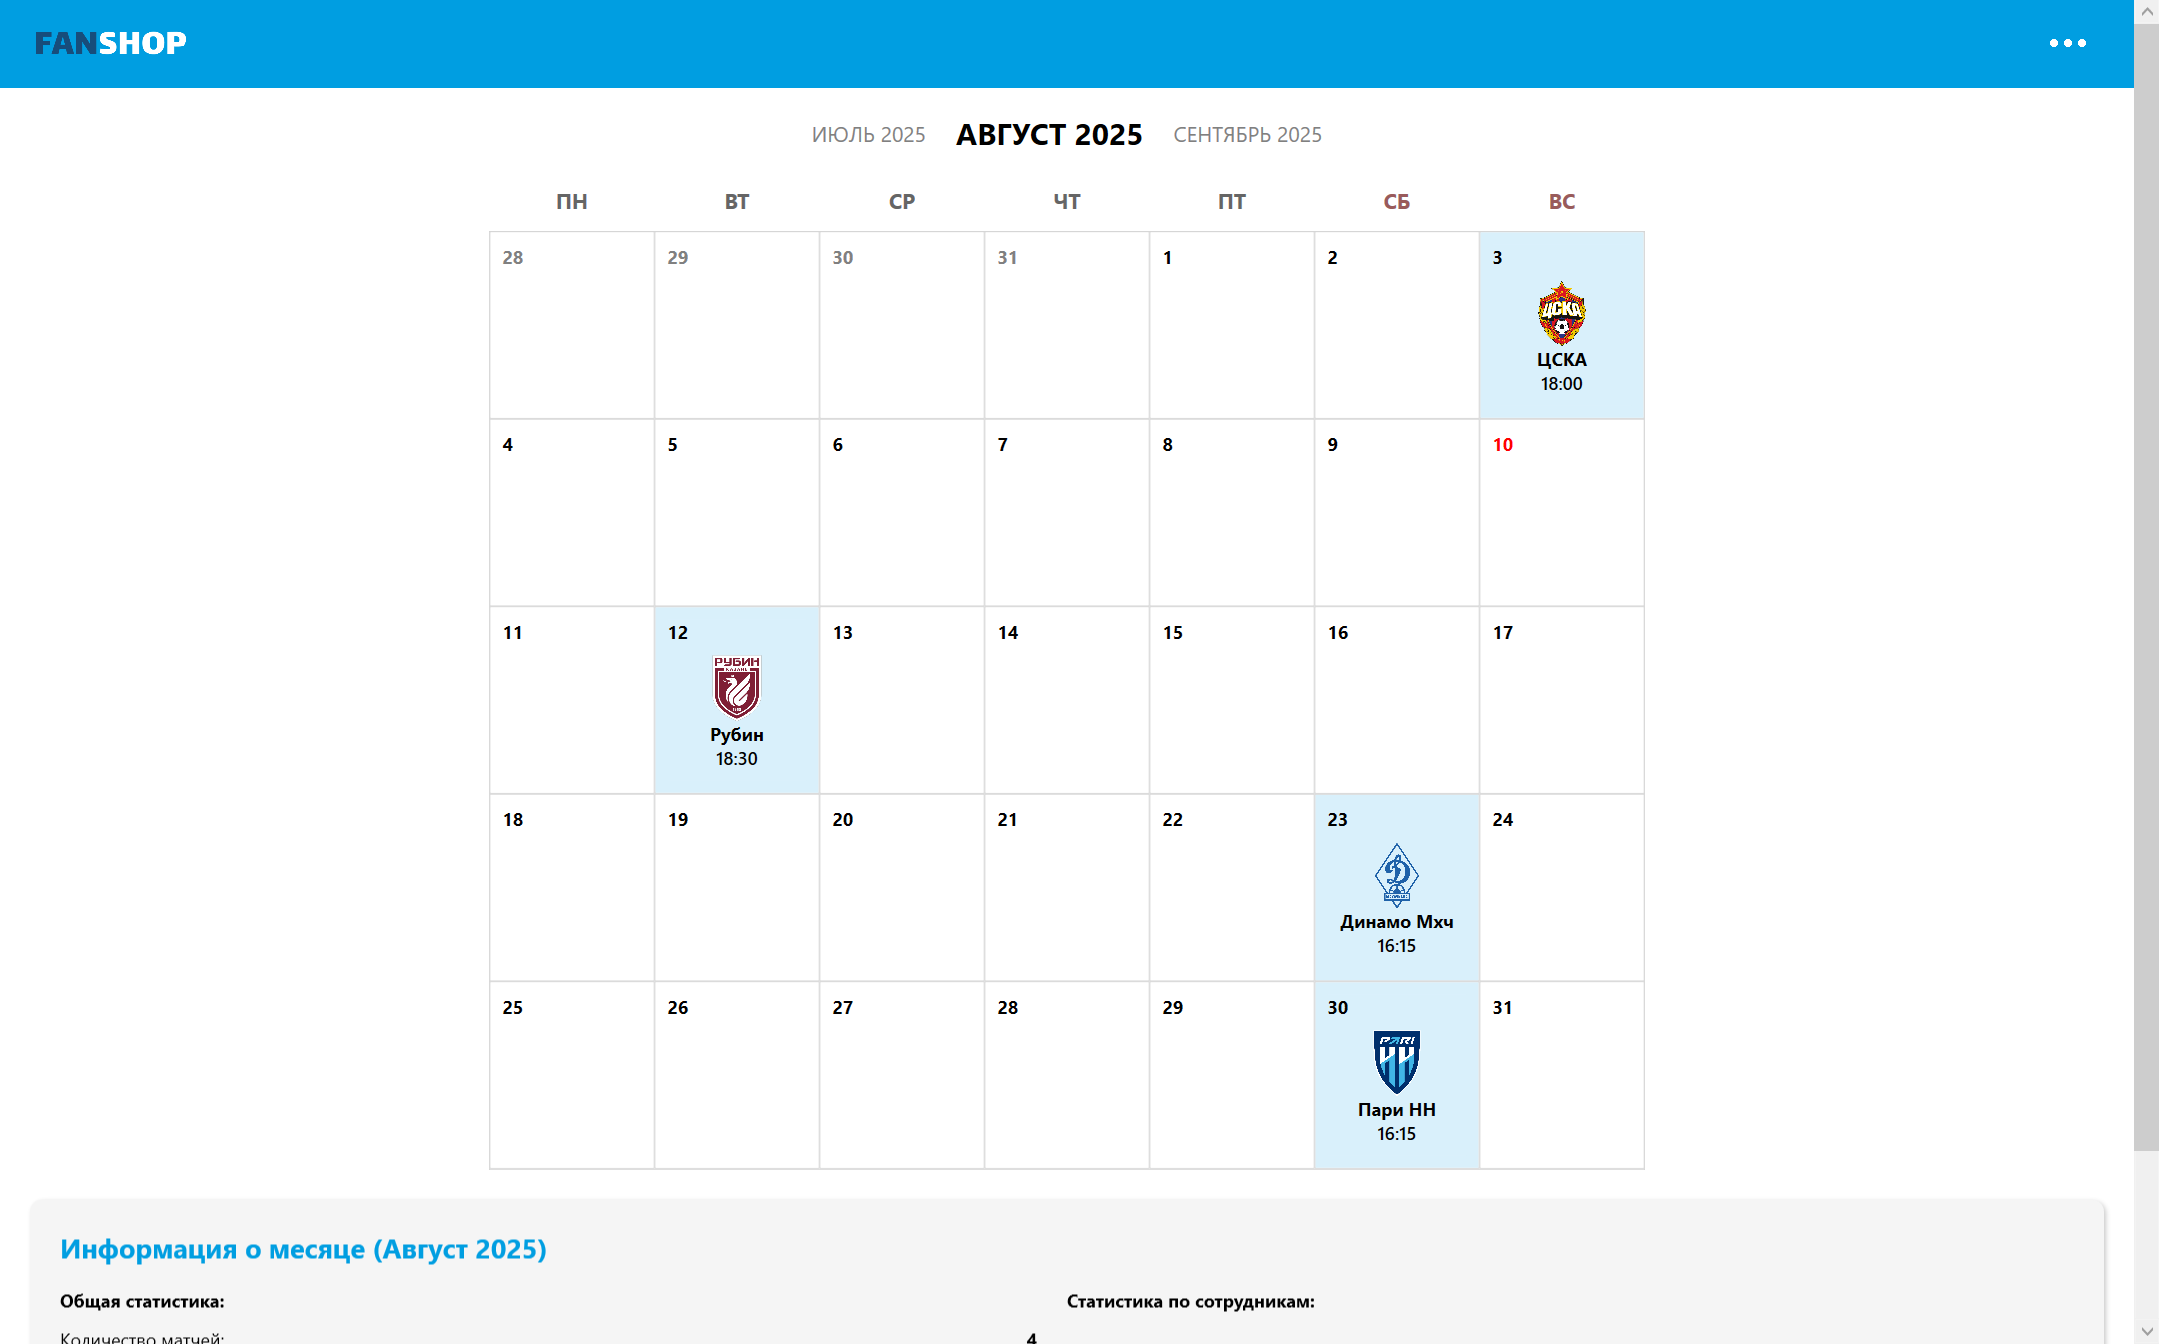
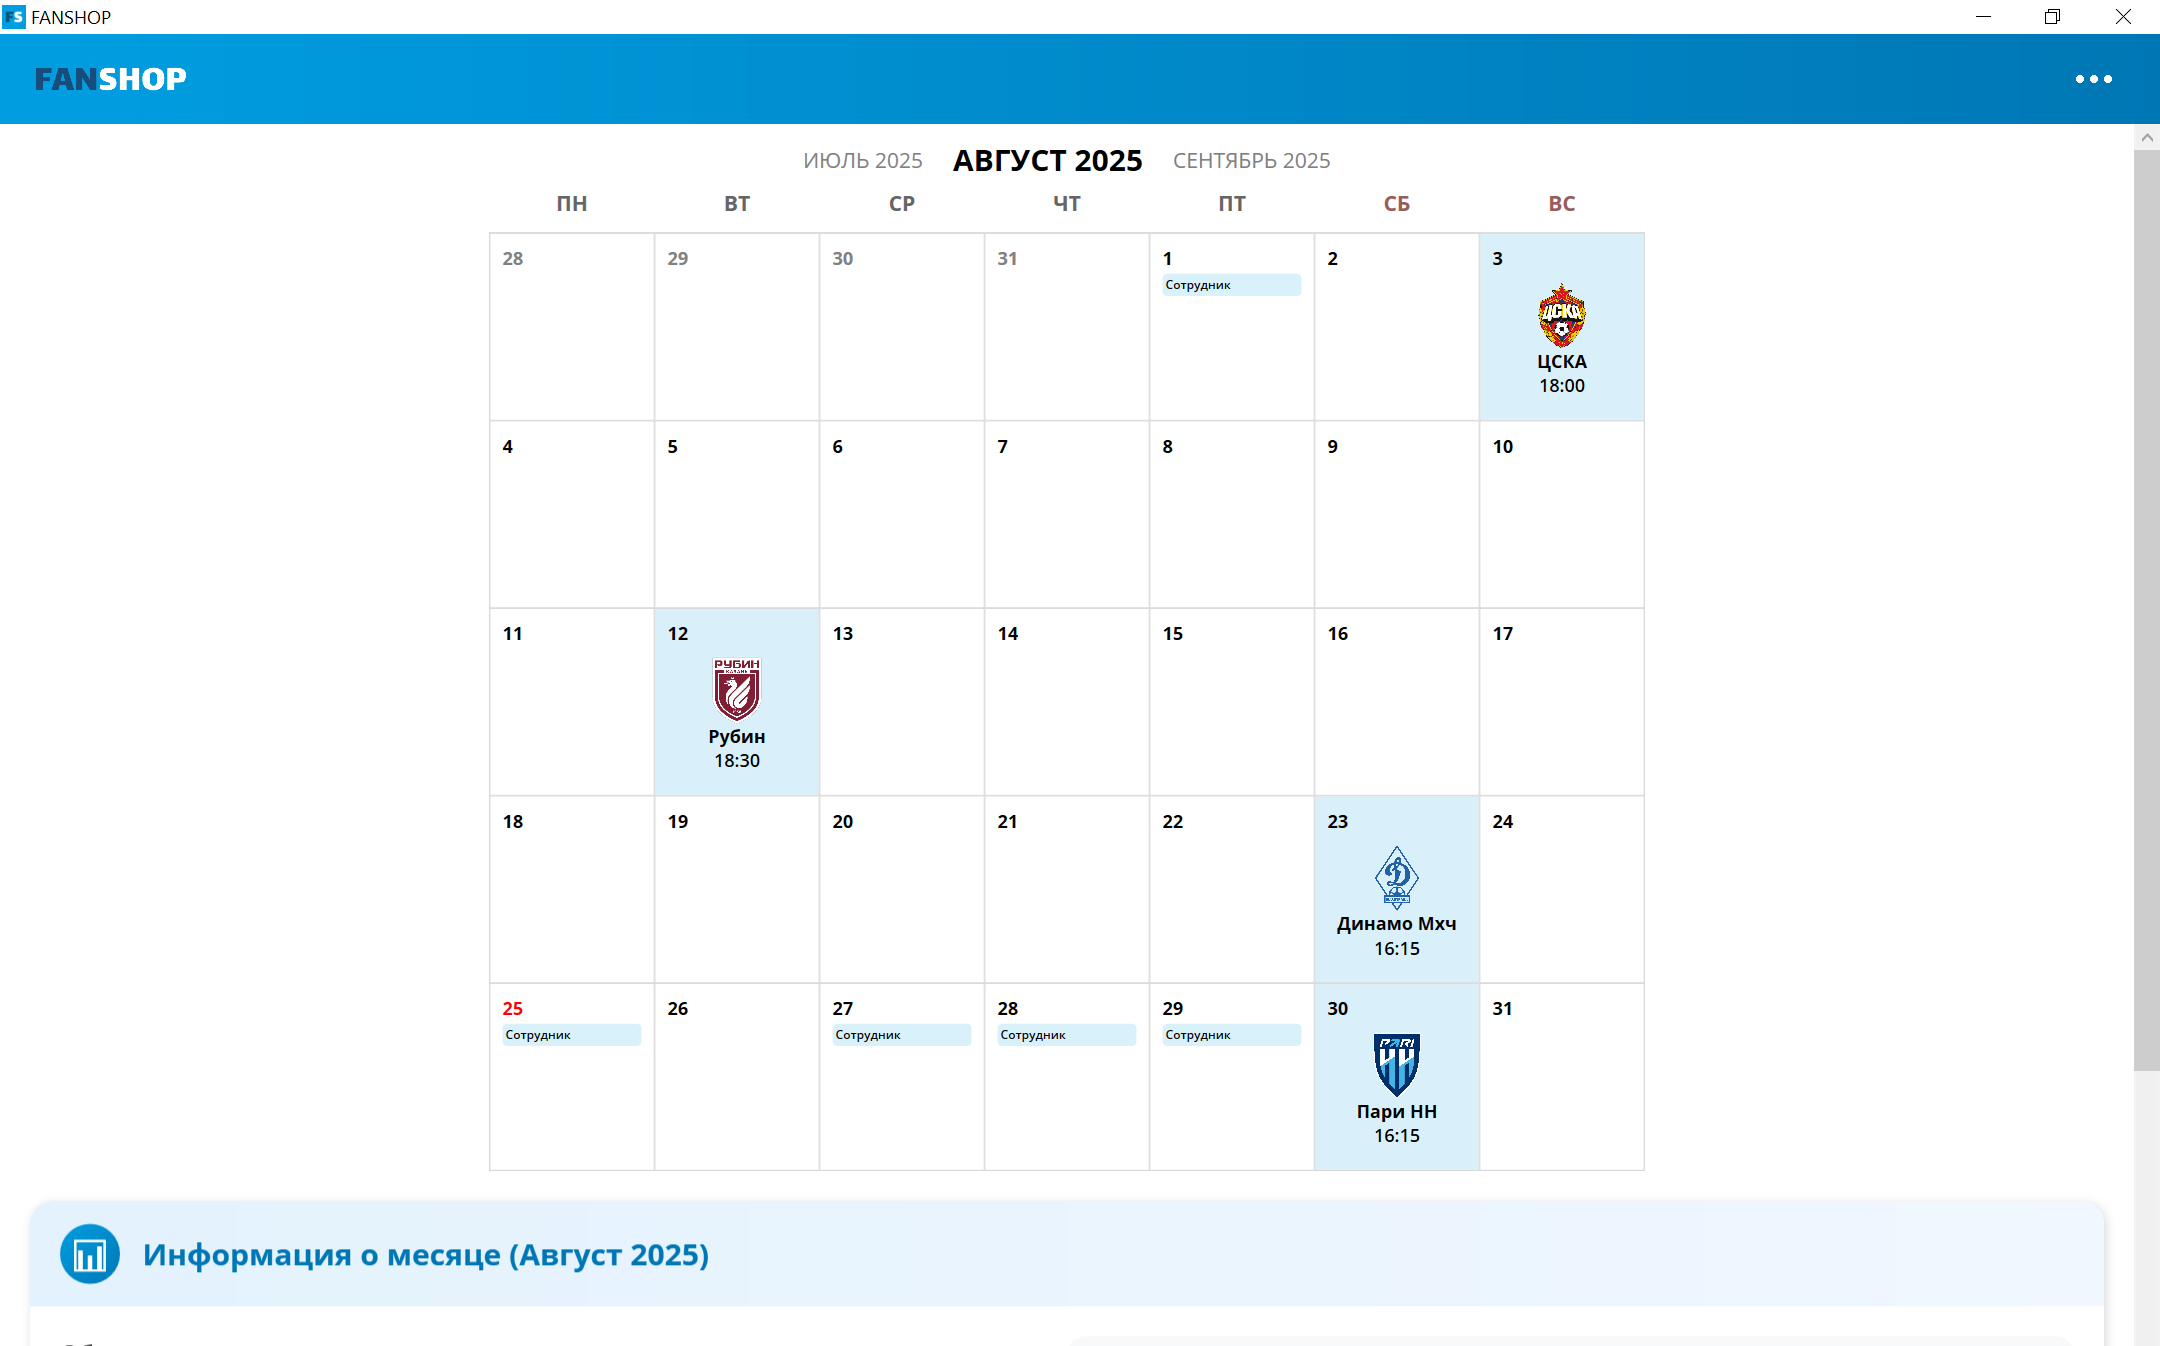
Update README.md

diff --git a/README.md b/README.md
@@ -27,6 +27,10 @@
     - Manage employee roles, shift rules, and payroll settings
     - Import/export data for backup or transfer
 
+- 📊 **Analytics and Reporting**
+    - View statistics on wor days and hours worked
+    - Make visual charts for better insights
+
 ---
 
 ## UI Preview
@@ -35,7 +39,11 @@
 
 ![Employee adding](.github/images/EmployeeAdding.png)
 
-![Day view](.github/images/EmployeesForDay.png)
+![Menu view](.github/images/Menu.png)
+
+![Analytics view](.github/images/Analytics.png)
+
+![Category Adding](.github/images/CategoryAdding.png)
 
 ---
 
@@ -55,6 +63,7 @@
 - OpenXML SDK — for working with Word documents 
 - Entity Framework Core — for database interaction (SQLite)
 - Firebase — for cloud storage
+- LiveCharts2 — for data visualization
 
 ## Project Structure
 ```plaintext
@@ -63,6 +72,7 @@ FanShopCalendar/
 ├── ViewModels/          # ViewModel classes for the UI
 ├── Views/               # XAML UI files
 ├── Windows/             # Windows for different application features
+├── Controls/            # Custom user controls
 ├── Converters/          # Converters for data binding
 ├── Services/            # Business logic (payroll, pass generation, DB access)
 ├── Resources/           # Icons, templates, styles
